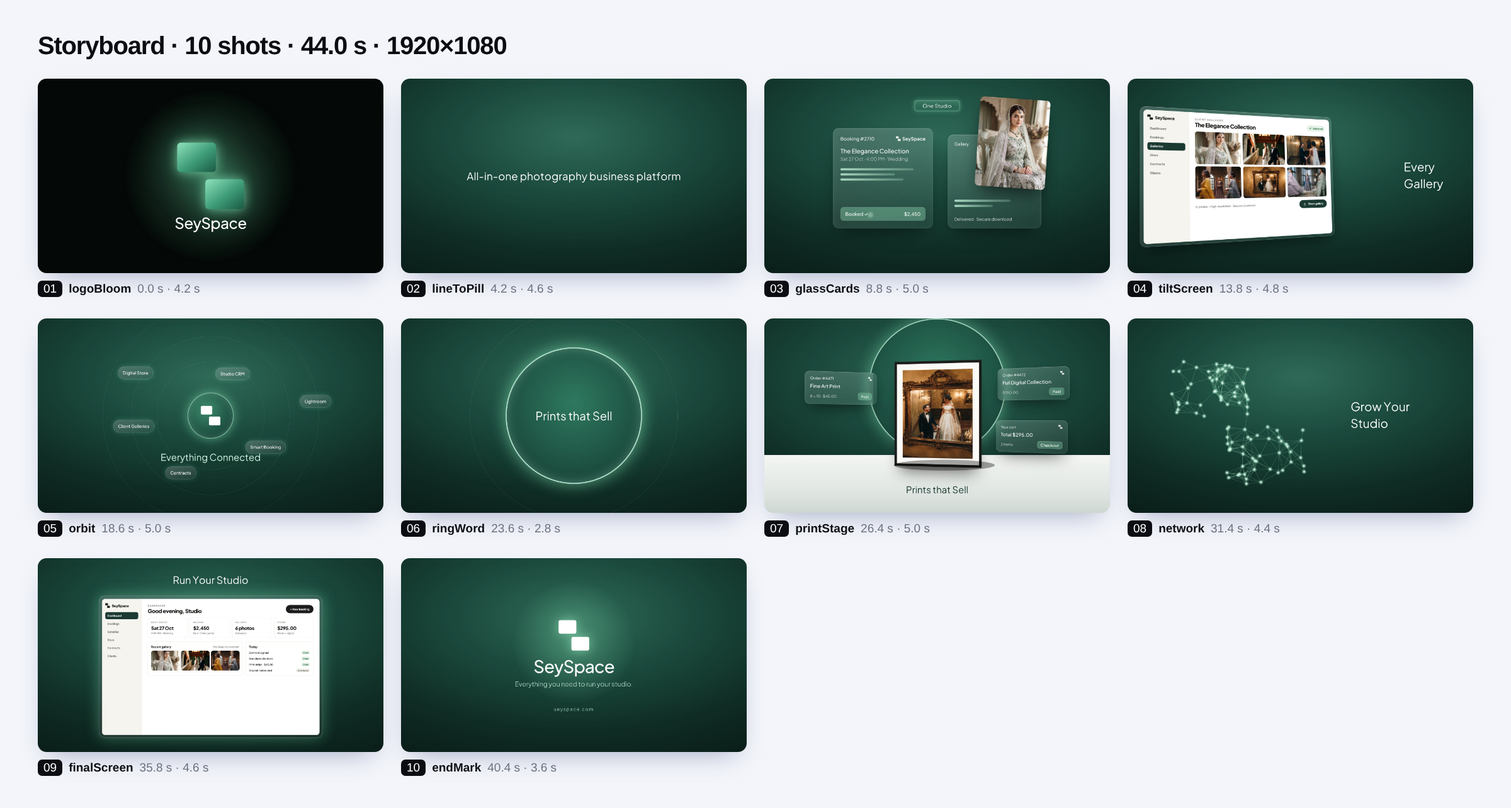
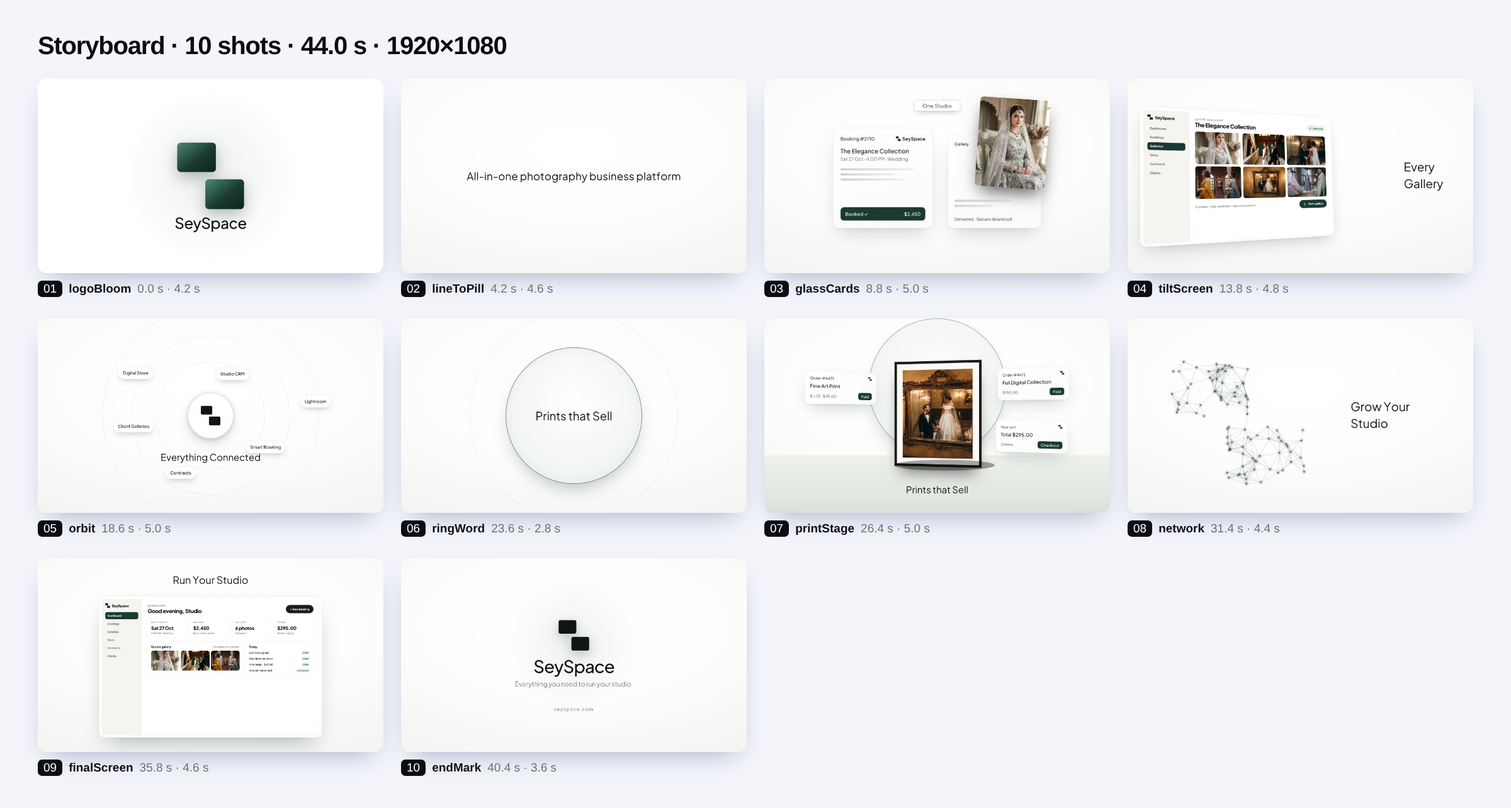
SeySpace reference-led storyboard: clean white world (green version kept as shots_ref_green.js)
Claude-Session: https://claude.ai/code/session_01Bj9t4eAUM8tCdGzL6hCUT3

diff --git a/films/seyspace_ref/shots_ref.js b/films/seyspace_ref/shots_ref.js
@@ -3,22 +3,22 @@
  * tilted screen in a glass frame, orbit rings, glowing ring reveal, product on a white table, light network).
  * Everything in SeySpace's own hue (forest green), mark, photos and product. */
 'use strict';
-const GW = 'radial-gradient(ellipse 90% 80% at 50% 30%,#2F6A57 0%,#1B4A3D 38%,#0F2C24 75%,#0A1F19 100%)';
+const GW = 'radial-gradient(ellipse 90% 80% at 50% 35%,#FFFFFF 0%,#FCFCFA 55%,#F2F4F1 100%)';   /* clean white world (was the green one) */
 const MARK = (fill = '#fff') => `<svg viewBox="0 0 295 294" width="100%" style="display:block;overflow:visible"><rect x="0" y="0" width="171" height="130" rx="16" fill="${fill}"/><rect x="124" y="162" width="171" height="132" rx="16" fill="${fill}"/></svg>`;
 const THIN = (px, w = 400) => `${w} ${px}px 'Plus Jakarta Sans',Inter,sans-serif`;
 (function () { const st = document.createElement('style'); st.textContent = `
   @font-face{font-family:'Plus Jakarta Sans';src:url(fonts/PlusJakartaSans-300.ttf);font-weight:300}
   @font-face{font-family:'Plus Jakarta Sans';src:url(fonts/PlusJakartaSans-400.ttf);font-weight:400}
   @font-face{font-family:'Plus Jakarta Sans';src:url(fonts/PlusJakartaSans-500.ttf);font-weight:500}
-  .glass{background:linear-gradient(160deg,rgba(255,255,255,.18),rgba(255,255,255,.05));border:1.5px solid rgba(255,255,255,.28);border-radius:26px;
-    box-shadow:inset 0 1px 0 rgba(255,255,255,.35),inset 0 0 40px rgba(180,255,220,.06),0 40px 90px -30px rgba(0,0,0,.6);backdrop-filter:blur(18px);color:#fff}
-  .gl-line{height:10px;border-radius:5px;background:linear-gradient(90deg,rgba(190,240,215,.85),rgba(190,240,215,.25))}
-  .gpill{display:inline-flex;align-items:center;justify-content:center;height:84px;padding:0 64px;border-radius:22px;border:2px solid rgba(200,255,230,.55);
-    background:linear-gradient(180deg,rgba(120,210,170,.28),rgba(40,120,90,.18));box-shadow:0 0 40px rgba(140,240,190,.35),inset 0 0 24px rgba(200,255,230,.25);color:#fff;font:400 40px 'Plus Jakarta Sans';letter-spacing:.02em;white-space:nowrap}`; document.head.appendChild(st); })();
+  .glass{background:linear-gradient(160deg,rgba(255,255,255,.92),rgba(250,251,249,.78));border:1px solid #E3E8E3;border-radius:26px;
+    box-shadow:inset 0 1px 0 #fff,0 40px 90px -36px rgba(27,59,50,.28),0 8px 24px -12px rgba(27,59,50,.12);backdrop-filter:blur(18px);color:#111611}
+  .gl-line{height:10px;border-radius:5px;background:linear-gradient(90deg,rgba(27,59,50,.22),rgba(27,59,50,.06))}
+  .gpill{display:inline-flex;align-items:center;justify-content:center;height:84px;padding:0 64px;border-radius:22px;border:1.5px solid rgba(27,59,50,.35);
+    background:#fff;box-shadow:0 20px 50px -20px rgba(27,59,50,.35),0 0 0 6px rgba(27,59,50,.04);color:#1B3B32;font:400 40px 'Plus Jakarta Sans';letter-spacing:.02em;white-space:nowrap}`; document.head.appendChild(st); })();
 
 /* letters that build one by one out of a soft blur (the reference's type) */
 function letters(parent, text, style) {
-  const e = D(parent, 'ctr', Object.assign({ whiteSpace: 'pre', color: '#fff', font: THIN(64) }, style));
+  const e = D(parent, 'ctr', Object.assign({ whiteSpace: 'pre', color: '#111611', font: THIN(64) }, style));
   const ch = [...text].map(c => { const s = document.createElement('span'); s.textContent = c; s.style.display = 'inline-block'; s.style.whiteSpace = 'pre'; e.appendChild(s); return s; });
   return { el: e, ch };
 }
@@ -27,15 +27,15 @@ function lettersP(o, t, t0, per = .045, dur = .45, out = null) {
     if (out) { const q = P(t, out, out + .45); a *= 1 - q; b += q * 10; }
     s.style.opacity = a.toFixed(3); s.style.filter = b > .2 ? `blur(${b.toFixed(1)}px)` : 'none'; s.style.transform = `translateX(${((1 - k) * 18).toFixed(1)}px)`; });
 }
-const glowDot = (c) => D(c, 'abs', { left: 0, top: 0, width: 44, height: 44, marginLeft: '-22px', marginTop: '-22px', borderRadius: '50%', background: 'radial-gradient(circle,#fff 0%,rgba(210,255,235,.9) 30%,rgba(150,240,200,0) 70%)', zIndex: 20 });
+const glowDot = (c) => D(c, 'abs', { left: 0, top: 0, width: 44, height: 44, marginLeft: '-22px', marginTop: '-22px', borderRadius: '50%', background: 'radial-gradient(circle,#1B3B32 0%,rgba(27,59,50,.55) 30%,rgba(27,59,50,0) 70%)', zIndex: 20 });
 
 /* 1 ===== logoBloom: the SeySpace mark grows out of the dark in 3D, glowing; then it shrinks to a spark that opens the green world */
-shot('logoBloom', { len: 4.2, hero: 2.0, bg: '#040806', marker: 'turn',
+shot('logoBloom', { len: 4.2, hero: 2.0, bg: '#FFFFFF', marker: 'turn',
   build(c, s) {
     s.world = D(c, 'abs', { left: 0, top: 0, width: W, height: H, background: GW });
-    s.halo = D(c, 'ctr', { left: CX, top: CY, width: 900, height: 900, borderRadius: '50%', background: 'radial-gradient(closest-side,rgba(110,220,170,.45),transparent)' });
+    s.halo = D(c, 'ctr', { left: CX, top: CY, width: 900, height: 900, borderRadius: '50%', background: 'radial-gradient(closest-side,rgba(27,59,50,.10),transparent)' });
     s.wrap = D(c, 'abs', { left: 0, top: 0, width: W, height: H, perspective: '1400px' });
-    s.mark = D(s.wrap, 'ctr', { left: CX, top: CY, width: 360, filter: 'drop-shadow(0 0 30px rgba(140,240,190,.7)) drop-shadow(0 0 90px rgba(90,200,150,.5))' }, `<svg viewBox="0 0 295 294" width="100%" style="display:block;overflow:visible"><defs><linearGradient id="mg" x1="0" y1="0" x2="1" y2="1"><stop offset="0" stop-color="#8FE3BC"/><stop offset=".55" stop-color="#3E9C78"/><stop offset="1" stop-color="#1B5A45"/></linearGradient></defs><rect x="0" y="0" width="171" height="130" rx="16" fill="url(#mg)"/><rect x="124" y="162" width="171" height="132" rx="16" fill="url(#mg)"/></svg>`);
+    s.mark = D(s.wrap, 'ctr', { left: CX, top: CY, width: 360, filter: 'drop-shadow(0 30px 40px rgba(27,59,50,.3))' }, `<svg viewBox="0 0 295 294" width="100%" style="display:block;overflow:visible"><defs><linearGradient id="mg" x1="0" y1="0" x2="1" y2="1"><stop offset="0" stop-color="#4C8A72"/><stop offset=".55" stop-color="#1B3B32"/><stop offset="1" stop-color="#0F241E"/></linearGradient></defs><rect x="0" y="0" width="171" height="130" rx="16" fill="url(#mg)"/><rect x="124" y="162" width="171" height="132" rx="16" fill="url(#mg)"/></svg>`);
     s.word = letters(c, 'SeySpace', { left: CX, top: CY + 260, font: THIN(84, 500), letterSpacing: '-.02em' });
     s.spark = glowDot(c); s.spark.style.width = s.spark.style.height = '90px'; s.spark.style.marginLeft = s.spark.style.marginTop = '-45px';
   },
@@ -43,7 +43,7 @@ shot('logoBloom', { len: 4.2, hero: 2.0, bg: '#040806', marker: 'turn',
     const k = eo(P(t, 0, 1.4));
     s.mark.style.transform = `translate(-50%,-50%) rotateY(${L(70, 0, k).toFixed(2)}deg) rotateZ(${L(-30, 0, k).toFixed(2)}deg) scale(${(L(.15, 1, k) * L(1, 1.06, P(t, 1.4, 2.6)) * (1 - eio(P(t, 2.6, 3.3)) * .96)).toFixed(4)})`;
     s.mark.style.opacity = C(P(t, 0, .3) * 3) * (1 - P(t, 3.2, 3.35));
-    s.mark.style.filter = `blur(${((1 - k) * 22).toFixed(1)}px) drop-shadow(0 0 30px rgba(140,240,190,.7)) drop-shadow(0 0 90px rgba(90,200,150,.5))`;
+    s.mark.style.filter = `blur(${((1 - k) * 22).toFixed(1)}px) drop-shadow(0 30px 40px rgba(27,59,50,.3))`;
     S(s.halo, { o: eo(P(t, .2, 1.4)) * (1 - P(t, 2.6, 3.2)) * (.8 + .2 * Math.sin(t * 3)), s: L(.5, 1.1, eo(P(t, 0, 2))) });
     lettersP(s.word, t, .9, .06, .5, 2.4);
     // the spark travels right and the world opens from it
@@ -75,10 +75,10 @@ shot('glassCards', { len: 5.4, hero: 3.6, bg: GW,
     s.pill = D(c, 'ctr', { left: CX, top: CY - 380, transform: 'translate(-50%,-50%) scale(.7)' }, `<span class="gpill">${kesc(sc.pill || '')}</span>`);
     s.wrap = D(c, 'abs', { left: 0, top: 0, width: W, height: H, perspective: '1800px', transformOrigin: '50% 60%', transform: 'scale(1.15)' });
     s.a = D(s.wrap, 'abs glass', { left: 470, top: 330, width: 470, height: 470, padding: '34px 34px' },
-      `<div style="display:flex;justify-content:space-between;align-items:center;font:${THIN(22, 500)};opacity:.9"><span>Booking #2710</span><span style="display:flex;align-items:center;gap:8px;font:600 22px 'Plus Jakarta Sans'"><span style="width:22px;height:22px">${MARK('#fff')}</span>SeySpace</span></div>
+      `<div style="display:flex;justify-content:space-between;align-items:center;font:${THIN(22, 500)};opacity:.9"><span>Booking #2710</span><span style="display:flex;align-items:center;gap:8px;font:600 22px 'Plus Jakarta Sans'"><span style="width:22px;height:22px">${MARK('#111611')}</span>SeySpace</span></div>
        <div style="margin-top:26px;font:${THIN(28, 500)}">The Elegance Collection</div><div style="margin-top:6px;font:${THIN(22, 300)};opacity:.8">Sat 27 Oct · 4:00 PM · Wedding</div>
        <div class="gl-line" style="width:86%;margin-top:30px"></div><div class="gl-line" style="width:64%;margin-top:14px"></div><div class="gl-line" style="width:74%;margin-top:14px"></div>
-       <div class="bk" style="position:absolute;left:34px;right:34px;bottom:34px;height:64px;border-radius:16px;background:rgba(255,255,255,.14);border:1.5px solid rgba(255,255,255,.3);display:flex;align-items:center;justify-content:space-between;padding:0 22px;font:${THIN(22, 500)}"><span class="lb">Confirm booking</span><span>$2,450</span></div>`);
+       <div class="bk" style="position:absolute;left:34px;right:34px;bottom:34px;height:64px;border-radius:16px;background:#F3F6F3;border:1px solid #E1E7E1;display:flex;align-items:center;justify-content:space-between;padding:0 22px;font:${THIN(22, 500)}"><span class="lb">Confirm booking</span><span>$2,450</span></div>`);
     s.b = D(s.wrap, 'abs glass', { left: 1010, top: 360, width: 440, height: 440, padding: '30px' },
       `<div style="display:flex;justify-content:space-between;font:${THIN(20, 500)};opacity:.9"><span>Gallery</span><span>6 photos</span></div>
        <div class="gl-line" style="width:70%;margin-top:250px"></div><div class="gl-line" style="width:48%;margin-top:14px"></div>
@@ -94,7 +94,7 @@ shot('glassCards', { len: 5.4, hero: 3.6, bg: GW,
     s.photo.style.transform = `translate(${((1 - kp) * 60).toFixed(1)}px,${((1 - kp) * 40).toFixed(1)}px) rotate(${L(8, 4, kp).toFixed(2)}deg) rotateY(${L(0, -16, tilt).toFixed(2)}deg)`; s.photo.style.opacity = C(kp * 2);
     const bp = centerOf(s.bk), dk = eio(P(t, 1.8, 2.6));
     S(s.dot, { x: L(CX + 300, bp.x - 60, dk), y: L(CY + 360, bp.y, dk), o: P(t, 1.7, 1.9) * (1 - P(t, 3.4, 3.7)), s: t > 2.7 && t < 2.95 ? 1.5 : 1 });
-    const done = t > 2.8; s.lb.textContent = done ? 'Booked ✓' : 'Confirm booking'; s.bk.style.background = done ? 'rgba(160,240,200,.35)' : 'rgba(255,255,255,.14)';
+    const done = t > 2.8; s.lb.textContent = done ? 'Booked ✓' : 'Confirm booking'; s.bk.style.background = done ? '#1B3B32' : '#F3F6F3'; s.bk.style.color = done ? '#fff' : '#111611';
     s.wrap.style.filter = tilt > .5 ? `blur(${((tilt - .5) * 10).toFixed(1)}px)` : 'none';
   } });
 
@@ -119,11 +119,11 @@ shot('tiltScreen', { len: 5.4, hero: 3.4, bg: GW,
 /* 5 ===== orbit: the mark in a glowing ring, its products orbiting on thin rings */
 shot('orbit', { len: 6.0, hero: 3.6, bg: GW,
   build(c, s, sc) {
-    s.rings = [300, 440, 600].map(r => D(c, 'ctr', { left: CX, top: CY, width: r * 2, height: r * 2, borderRadius: '50%', border: '1.5px solid rgba(200,255,230,.22)' }));
-    s.core = D(c, 'ctr', { left: CX, top: CY, width: 260, height: 260, borderRadius: '50%', background: 'radial-gradient(circle at 40% 35%,#3E8C6E,#1B4A3D 70%)', border: '3px solid rgba(200,255,230,.7)', boxShadow: '0 0 60px rgba(140,240,190,.55),inset 0 0 40px rgba(200,255,230,.25)', display: 'flex', alignItems: 'center', justifyContent: 'center' },
-      `<div style="width:110px">${MARK('#fff')}</div>`);
-    s.word = letters(c, sc.text || '', { left: CX, top: CY + 230, font: THIN(52, 400), color: 'rgba(220,255,240,.95)' });
-    s.items = (sc.items || []).map((n, i) => ({ e: D(c, 'ctr', { left: 0, top: 0, height: 70, padding: '0 26px', borderRadius: '35px', background: 'linear-gradient(160deg,rgba(255,255,255,.22),rgba(255,255,255,.06))', border: '1.5px solid rgba(255,255,255,.35)', color: '#fff', font: THIN(24, 500), display: 'flex', alignItems: 'center', whiteSpace: 'nowrap', boxShadow: '0 0 30px rgba(140,240,190,.25)' }, kesc(n)),
+    s.rings = [300, 440, 600].map(r => D(c, 'ctr', { left: CX, top: CY, width: r * 2, height: r * 2, borderRadius: '50%', border: '1.5px solid rgba(27,59,50,.14)' }));
+    s.core = D(c, 'ctr', { left: CX, top: CY, width: 260, height: 260, borderRadius: '50%', background: '#fff', border: '2px solid rgba(27,59,50,.25)', boxShadow: '0 30px 70px -24px rgba(27,59,50,.35),0 0 0 14px rgba(27,59,50,.04)', display: 'flex', alignItems: 'center', justifyContent: 'center' },
+      `<div style="width:110px">${MARK('#111611')}</div>`);
+    s.word = letters(c, sc.text || '', { left: CX, top: CY + 230, font: THIN(52, 400), color: '#111611' });
+    s.items = (sc.items || []).map((n, i) => ({ e: D(c, 'ctr', { left: 0, top: 0, height: 70, padding: '0 26px', borderRadius: '35px', background: '#fff', border: '1px solid #E1E7E1', color: '#111611', font: THIN(24, 500), display: 'flex', alignItems: 'center', whiteSpace: 'nowrap', boxShadow: '0 16px 34px -16px rgba(27,59,50,.35)' }, kesc(n)),
       r: [440, 600, 440, 600, 440, 600][i % 6], a: i * Math.PI / 3 + .3, sp: .14, d: .9 + i * .14 }));
   },
   update(t, s, c) {
@@ -137,28 +137,28 @@ shot('orbit', { len: 6.0, hero: 3.6, bg: GW,
 /* 6 ===== ringWord: a big glowing ring fills the frame; the next idea builds inside it */
 shot('ringWord', { len: 3.4, hero: 2.4, bg: GW,
   build(c, s, sc) {
-    s.ring = D(c, 'ctr', { left: CX, top: CY, width: 760, height: 760, borderRadius: '50%', background: 'radial-gradient(circle at 50% 40%,#2F7A60,#1B4A3D 72%)', border: '6px solid rgba(210,255,235,.85)', boxShadow: '0 0 90px rgba(140,240,190,.6),inset 0 0 60px rgba(200,255,230,.3)' });
-    s.halo = D(c, 'ctr', { left: CX, top: CY, width: 1100, height: 1100, borderRadius: '50%', border: '1.5px solid rgba(200,255,230,.25)' });
+    s.ring = D(c, 'ctr', { left: CX, top: CY, width: 760, height: 760, borderRadius: '50%', background: 'radial-gradient(circle at 50% 40%,#FFFFFF,#F1F5F2 72%)', border: '3px solid rgba(27,59,50,.55)', boxShadow: '0 50px 100px -40px rgba(27,59,50,.35),inset 0 0 60px rgba(27,59,50,.05)' });
+    s.halo = D(c, 'ctr', { left: CX, top: CY, width: 1100, height: 1100, borderRadius: '50%', border: '1.5px solid rgba(27,59,50,.14)' });
     s.word = letters(c, sc.text || '', { left: CX, top: CY, font: THIN(64, 400) });
   },
   update(t, s, c) {
     const k = eo(P(t, 0, 1.0)); S(s.ring, { s: L(.35, 1, k) * (1 + .015 * Math.sin(t * 4)), o: C(k * 2) }); S(s.halo, { s: L(.5, 1.05, eo(P(t, .2, 1.4))), o: .9 * eo(P(t, .2, 1)) });
-    s.ring.style.borderColor = `rgba(210,255,235,${(.6 + .3 * Math.sin(t * 3)).toFixed(2)})`;
+    s.ring.style.borderColor = `rgba(27,59,50,${(.45 + .15 * Math.sin(t * 3)).toFixed(2)})`;
     lettersP(s.word, t, .8, .055);
   } });
 
 /* 7 ===== printStage: the product as an object: the client's framed print on a white table, glass order cards floating over it */
 shot('printStage', { len: 5.4, hero: 3.6, bg: GW,
   build(c, s, sc) {
-    s.ring = D(c, 'ctr', { left: CX, top: 380, width: 760, height: 760, borderRadius: '50%', background: 'radial-gradient(circle at 50% 40%,#2F7A60,#1B4A3D 72%)', border: '6px solid rgba(210,255,235,.8)', boxShadow: '0 0 90px rgba(140,240,190,.55)' });
-    s.table = D(c, 'abs', { left: -100, top: 760, width: W + 200, height: 420, background: 'linear-gradient(180deg,#F4F6F3 0%,#DDE4DF 55%,#BCC8C1 100%)', boxShadow: '0 -2px 0 rgba(255,255,255,.9)' });
+    s.ring = D(c, 'ctr', { left: CX, top: 380, width: 760, height: 760, borderRadius: '50%', background: 'radial-gradient(circle at 50% 40%,#FFFFFF,#EEF3EF 72%)', border: '3px solid rgba(27,59,50,.45)', boxShadow: '0 50px 100px -40px rgba(27,59,50,.3)' });
+    s.table = D(c, 'abs', { left: -100, top: 760, width: W + 200, height: 420, background: 'linear-gradient(180deg,#EEF1EC 0%,#E2E7E1 55%,#D2D9D2 100%)', boxShadow: '0 -1px 0 #fff' });
     s.wrap = D(c, 'abs', { left: 0, top: 0, width: W, height: H, perspective: '1600px' });
     s.frame = D(s.wrap, 'abs', { left: CX - 230, top: 250, width: 460, height: 560, background: '#fbfaf7', padding: '34px', boxShadow: '0 0 0 14px #1d1d1b,0 60px 80px -20px rgba(0,0,0,.55)', transformOrigin: '50% 100%' }, `<div style="width:100%;height:100%;background:url('assets/g4.jpg') center/cover"></div>`);
     s.shadow = D(c, 'ctr', { left: CX + 40, top: 815, width: 560, height: 60, borderRadius: '50%', background: 'rgba(0,0,0,.35)', filter: 'blur(18px)' });
     const cards = sc.cards || [];
     s.cards = cards.map((cd, i) => D(s.wrap, 'abs glass', { left: [240, 1300, 1290][i], top: [300, 270, 560][i], width: 380, padding: '24px 26px' },
-      `<div style="display:flex;justify-content:space-between;font:${THIN(20, 500)};opacity:.85"><span>${kesc(cd[0])}</span><span style="width:20px;height:20px">${MARK('#fff')}</span></div><div style="margin-top:14px;font:${THIN(26, 500)}">${kesc(cd[1])}</div><div style="display:flex;justify-content:space-between;align-items:center;margin-top:18px"><span style="font:${THIN(20, 300)};opacity:.85">${kesc(cd[2])}</span><span style="height:40px;padding:0 16px;border-radius:12px;background:rgba(160,240,200,.3);border:1.5px solid rgba(220,255,240,.5);display:flex;align-items:center;font:${THIN(20, 500)}">${kesc(cd[3])}</span></div>`));
-    s.word = letters(c, sc.text || '', { left: CX, top: 950, font: THIN(52, 400), color: '#1B3B32' });
+      `<div style="display:flex;justify-content:space-between;font:${THIN(20, 500)};opacity:.85"><span>${kesc(cd[0])}</span><span style="width:20px;height:20px">${MARK('#111611')}</span></div><div style="margin-top:14px;font:${THIN(26, 500)}">${kesc(cd[1])}</div><div style="display:flex;justify-content:space-between;align-items:center;margin-top:18px"><span style="font:${THIN(20, 300)};opacity:.85">${kesc(cd[2])}</span><span style="height:40px;padding:0 16px;border-radius:12px;background:#1B3B32;color:#fff;display:flex;align-items:center;font:${THIN(20, 500)}">${kesc(cd[3])}</span></div>`));
+    s.word = letters(c, sc.text || '', { left: CX, top: 950, font: THIN(52, 400), color: '#111611' });
   },
   update(t, s, c) {
     S(c, { s: L(1.04, 1, eo(P(t, 0, 5.4))) });
@@ -184,9 +184,9 @@ shot('network', { len: 5.0, hero: 3.2, bg: GW,
     S(c, { s: L(1, 1.05, t / 5) });
     const x = s.cv.getContext('2d'); x.clearRect(0, 0, W, H);
     const pos = s.pts.map(([px, py], i) => { const k = eio(P(t, hash(i) * .6, .9 + hash(i) * .6)); return [L(px + (hash(i + 4) - .5) * 900, px, k), L(py + (hash(i + 8) - .5) * 700, py, k), k]; });
-    x.lineWidth = 1.2; s.links.forEach(([i, j], n) => { const a = Math.min(pos[i][2], pos[j][2]) * eo(P(t, 1.0, 2.0)); if (a <= 0) return; x.strokeStyle = `rgba(170,240,205,${(a * .45).toFixed(3)})`; x.beginPath(); x.moveTo(pos[i][0], pos[i][1]); x.lineTo(pos[j][0], pos[j][1]); x.stroke(); });
-    pos.forEach(([px, py, k], i) => { const g = x.createRadialGradient(px, py, 0, px, py, 14); g.addColorStop(0, `rgba(235,255,245,${k})`); g.addColorStop(1, 'rgba(150,240,200,0)'); x.fillStyle = g; x.beginPath(); x.arc(px, py, 14, 0, 7); x.fill();
-      const tw = .5 + .5 * Math.sin(t * 4 + i); x.fillStyle = `rgba(255,255,255,${(k * (.6 + .4 * tw)).toFixed(3)})`; x.beginPath(); x.arc(px, py, 3.2, 0, 7); x.fill(); });
+    x.lineWidth = 1.2; s.links.forEach(([i, j], n) => { const a = Math.min(pos[i][2], pos[j][2]) * eo(P(t, 1.0, 2.0)); if (a <= 0) return; x.strokeStyle = `rgba(27,59,50,${(a * .28).toFixed(3)})`; x.beginPath(); x.moveTo(pos[i][0], pos[i][1]); x.lineTo(pos[j][0], pos[j][1]); x.stroke(); });
+    pos.forEach(([px, py, k], i) => { const g = x.createRadialGradient(px, py, 0, px, py, 14); g.addColorStop(0, `rgba(27,59,50,${(k * .35).toFixed(3)})`); g.addColorStop(1, 'rgba(27,59,50,0)'); x.fillStyle = g; x.beginPath(); x.arc(px, py, 14, 0, 7); x.fill();
+      const tw = .5 + .5 * Math.sin(t * 4 + i); x.fillStyle = `rgba(27,59,50,${(k * (.7 + .3 * tw)).toFixed(3)})`; x.beginPath(); x.arc(px, py, 3.2, 0, 7); x.fill(); });
     lettersP(s.w1, t, 1.2, .06); lettersP(s.w2, t, 1.55, .06);
   } });
 
@@ -194,7 +194,7 @@ shot('network', { len: 5.0, hero: 3.2, bg: GW,
 shot('finalScreen', { len: 5.2, hero: 3.4, bg: GW,
   build(c, s, sc) {
     s.title = letters(c, sc.title || '', { left: CX, top: 120, font: THIN(56, 400) });
-    s.frame = D(c, 'abs glass', { left: CX - 620, top: 210, width: 1240, height: 790, padding: '16px', borderRadius: '30px', boxShadow: '0 0 0 1px rgba(255,255,255,.2),0 0 80px rgba(140,240,190,.35)' });
+    s.frame = D(c, 'abs glass', { left: CX - 620, top: 210, width: 1240, height: 790, padding: '16px', borderRadius: '30px', boxShadow: '0 60px 120px -50px rgba(27,59,50,.4),0 0 0 1px #E3E8E3' });
     s.comp = renderComponent(s.frame, sc.component, { x: 16, y: 16, w: 1208 }); s.comp.el.style.position = 'absolute'; s.comp.el.style.height = '758px'; s.comp.el.style.overflow = 'hidden'; s.comp.el.style.borderRadius = '18px'; s.comp.el.style.boxShadow = 'none';
   },
   update(t, s, c) {
@@ -207,15 +207,15 @@ shot('finalScreen', { len: 5.2, hero: 3.4, bg: GW,
 /* 10 ===== endMark: mark, wordmark, line, URL */
 shot('endMark', { len: 3.6, hero: 2.6, bg: GW, marker: 'cta',
   build(c, s, sc) {
-    s.halo = D(c, 'ctr', { left: CX, top: CY - 70, width: 700, height: 700, borderRadius: '50%', background: 'radial-gradient(closest-side,rgba(140,240,190,.35),transparent)' });
-    s.mark = D(c, 'ctr', { left: CX, top: CY - 110, width: 170, filter: 'drop-shadow(0 0 30px rgba(160,240,200,.6))' }, MARK('#fff'));
+    s.halo = D(c, 'ctr', { left: CX, top: CY - 70, width: 700, height: 700, borderRadius: '50%', background: 'radial-gradient(closest-side,rgba(27,59,50,.07),transparent)' });
+    s.mark = D(c, 'ctr', { left: CX, top: CY - 110, width: 170, filter: 'drop-shadow(0 20px 30px rgba(27,59,50,.25))' }, MARK('#111611'));
     s.word = letters(c, 'SeySpace', { left: CX, top: CY + 60, font: THIN(96, 500), letterSpacing: '-.03em' });
-    s.line = letters(c, sc.line || '', { left: CX, top: CY + 160, font: THIN(36, 300), color: 'rgba(220,255,240,.9)' });
-    s.url = letters(c, B.url || '', { left: CX, top: CY + 300, font: THIN(26, 400), color: 'rgba(220,255,240,.7)', letterSpacing: '.12em' });
+    s.line = letters(c, sc.line || '', { left: CX, top: CY + 160, font: THIN(36, 300), color: '#5F655E' });
+    s.url = letters(c, B.url || '', { left: CX, top: CY + 300, font: THIN(26, 400), color: '#7A7F78', letterSpacing: '.12em' });
   },
   update(t, s, c) {
     S(c, { s: L(1.04, 1, eo(P(t, 0, 3.6))) });
-    const k = eo(P(t, 0, .9)); s.mark.style.opacity = C(k * 2); s.mark.style.transform = `translate(-50%,-50%) scale(${L(.6, 1, k).toFixed(3)}) rotate(${L(-20, 0, k).toFixed(2)}deg)`; s.mark.style.filter = `blur(${((1 - k) * 16).toFixed(1)}px) drop-shadow(0 0 30px rgba(160,240,200,.6))`;
+    const k = eo(P(t, 0, .9)); s.mark.style.opacity = C(k * 2); s.mark.style.transform = `translate(-50%,-50%) scale(${L(.6, 1, k).toFixed(3)}) rotate(${L(-20, 0, k).toFixed(2)}deg)`; s.mark.style.filter = `blur(${((1 - k) * 16).toFixed(1)}px) drop-shadow(0 20px 30px rgba(27,59,50,.25))`;
     S(s.halo, { o: k * (.8 + .2 * Math.sin(t * 3)) });
     lettersP(s.word, t, .5, .06); lettersP(s.line, t, 1.1, .03); lettersP(s.url, t, 1.7, .03);
   } });

diff --git a/films/seyspace_ref/shots_ref_green.js b/films/seyspace_ref/shots_ref_green.js
@@ -1,0 +1,221 @@
+/* SeySpace, reference-led film (taste adjustments from the user's reference: one-colour glowing world, slow
+ * continuous camera, thin small type built letter by letter, frosted glass cards with real product photos,
+ * tilted screen in a glass frame, orbit rings, glowing ring reveal, product on a white table, light network).
+ * Everything in SeySpace's own hue (forest green), mark, photos and product. */
+'use strict';
+const GW = 'radial-gradient(ellipse 90% 80% at 50% 30%,#2F6A57 0%,#1B4A3D 38%,#0F2C24 75%,#0A1F19 100%)';
+const MARK = (fill = '#fff') => `<svg viewBox="0 0 295 294" width="100%" style="display:block;overflow:visible"><rect x="0" y="0" width="171" height="130" rx="16" fill="${fill}"/><rect x="124" y="162" width="171" height="132" rx="16" fill="${fill}"/></svg>`;
+const THIN = (px, w = 400) => `${w} ${px}px 'Plus Jakarta Sans',Inter,sans-serif`;
+(function () { const st = document.createElement('style'); st.textContent = `
+  @font-face{font-family:'Plus Jakarta Sans';src:url(fonts/PlusJakartaSans-300.ttf);font-weight:300}
+  @font-face{font-family:'Plus Jakarta Sans';src:url(fonts/PlusJakartaSans-400.ttf);font-weight:400}
+  @font-face{font-family:'Plus Jakarta Sans';src:url(fonts/PlusJakartaSans-500.ttf);font-weight:500}
+  .glass{background:linear-gradient(160deg,rgba(255,255,255,.18),rgba(255,255,255,.05));border:1.5px solid rgba(255,255,255,.28);border-radius:26px;
+    box-shadow:inset 0 1px 0 rgba(255,255,255,.35),inset 0 0 40px rgba(180,255,220,.06),0 40px 90px -30px rgba(0,0,0,.6);backdrop-filter:blur(18px);color:#fff}
+  .gl-line{height:10px;border-radius:5px;background:linear-gradient(90deg,rgba(190,240,215,.85),rgba(190,240,215,.25))}
+  .gpill{display:inline-flex;align-items:center;justify-content:center;height:84px;padding:0 64px;border-radius:22px;border:2px solid rgba(200,255,230,.55);
+    background:linear-gradient(180deg,rgba(120,210,170,.28),rgba(40,120,90,.18));box-shadow:0 0 40px rgba(140,240,190,.35),inset 0 0 24px rgba(200,255,230,.25);color:#fff;font:400 40px 'Plus Jakarta Sans';letter-spacing:.02em;white-space:nowrap}`; document.head.appendChild(st); })();
+
+/* letters that build one by one out of a soft blur (the reference's type) */
+function letters(parent, text, style) {
+  const e = D(parent, 'ctr', Object.assign({ whiteSpace: 'pre', color: '#fff', font: THIN(64) }, style));
+  const ch = [...text].map(c => { const s = document.createElement('span'); s.textContent = c; s.style.display = 'inline-block'; s.style.whiteSpace = 'pre'; e.appendChild(s); return s; });
+  return { el: e, ch };
+}
+function lettersP(o, t, t0, per = .045, dur = .45, out = null) {
+  o.ch.forEach((s, i) => { const k = eo(P(t, t0 + i * per, t0 + i * per + dur)); let a = k, b = (1 - k) * 10;
+    if (out) { const q = P(t, out, out + .45); a *= 1 - q; b += q * 10; }
+    s.style.opacity = a.toFixed(3); s.style.filter = b > .2 ? `blur(${b.toFixed(1)}px)` : 'none'; s.style.transform = `translateX(${((1 - k) * 18).toFixed(1)}px)`; });
+}
+const glowDot = (c) => D(c, 'abs', { left: 0, top: 0, width: 44, height: 44, marginLeft: '-22px', marginTop: '-22px', borderRadius: '50%', background: 'radial-gradient(circle,#fff 0%,rgba(210,255,235,.9) 30%,rgba(150,240,200,0) 70%)', zIndex: 20 });
+
+/* 1 ===== logoBloom: the SeySpace mark grows out of the dark in 3D, glowing; then it shrinks to a spark that opens the green world */
+shot('logoBloom', { len: 4.2, hero: 2.0, bg: '#040806', marker: 'turn',
+  build(c, s) {
+    s.world = D(c, 'abs', { left: 0, top: 0, width: W, height: H, background: GW });
+    s.halo = D(c, 'ctr', { left: CX, top: CY, width: 900, height: 900, borderRadius: '50%', background: 'radial-gradient(closest-side,rgba(110,220,170,.45),transparent)' });
+    s.wrap = D(c, 'abs', { left: 0, top: 0, width: W, height: H, perspective: '1400px' });
+    s.mark = D(s.wrap, 'ctr', { left: CX, top: CY, width: 360, filter: 'drop-shadow(0 0 30px rgba(140,240,190,.7)) drop-shadow(0 0 90px rgba(90,200,150,.5))' }, `<svg viewBox="0 0 295 294" width="100%" style="display:block;overflow:visible"><defs><linearGradient id="mg" x1="0" y1="0" x2="1" y2="1"><stop offset="0" stop-color="#8FE3BC"/><stop offset=".55" stop-color="#3E9C78"/><stop offset="1" stop-color="#1B5A45"/></linearGradient></defs><rect x="0" y="0" width="171" height="130" rx="16" fill="url(#mg)"/><rect x="124" y="162" width="171" height="132" rx="16" fill="url(#mg)"/></svg>`);
+    s.word = letters(c, 'SeySpace', { left: CX, top: CY + 260, font: THIN(84, 500), letterSpacing: '-.02em' });
+    s.spark = glowDot(c); s.spark.style.width = s.spark.style.height = '90px'; s.spark.style.marginLeft = s.spark.style.marginTop = '-45px';
+  },
+  update(t, s, c) {
+    const k = eo(P(t, 0, 1.4));
+    s.mark.style.transform = `translate(-50%,-50%) rotateY(${L(70, 0, k).toFixed(2)}deg) rotateZ(${L(-30, 0, k).toFixed(2)}deg) scale(${(L(.15, 1, k) * L(1, 1.06, P(t, 1.4, 2.6)) * (1 - eio(P(t, 2.6, 3.3)) * .96)).toFixed(4)})`;
+    s.mark.style.opacity = C(P(t, 0, .3) * 3) * (1 - P(t, 3.2, 3.35));
+    s.mark.style.filter = `blur(${((1 - k) * 22).toFixed(1)}px) drop-shadow(0 0 30px rgba(140,240,190,.7)) drop-shadow(0 0 90px rgba(90,200,150,.5))`;
+    S(s.halo, { o: eo(P(t, .2, 1.4)) * (1 - P(t, 2.6, 3.2)) * (.8 + .2 * Math.sin(t * 3)), s: L(.5, 1.1, eo(P(t, 0, 2))) });
+    lettersP(s.word, t, .9, .06, .5, 2.4);
+    // the spark travels right and the world opens from it
+    const sp = eio(P(t, 3.0, 3.8)), sx = L(CX, CX + 420, sp), sy = L(CY, CY - 60, sp);
+    S(s.spark, { x: sx, y: sy, o: P(t, 3.0, 3.15) * (1 - P(t, 3.9, 4.2)), s: 1 + .3 * Math.sin(t * 20) });
+    const R = 2400 * eio(P(t, 3.3, 4.2)); s.world.style.clipPath = `circle(${R.toFixed(0)}px at ${sx.toFixed(0)}px ${sy.toFixed(0)}px)`;
+  } });
+
+/* 2 ===== lineToPill: the positioning line builds letter by letter, then condenses into a glowing glass pill */
+shot('lineToPill', { len: 5.0, hero: 1.9, bg: GW,
+  build(c, s, sc) {
+    s.line = letters(c, sc.line || '', { left: CX, top: CY, font: THIN(58, 400), letterSpacing: '.01em' });
+    s.pill = D(c, 'ctr', { left: CX, top: CY }, `<span class="gpill"></span>`); s.pt = s.pill.firstChild;
+    s.ptxt = letters(s.pt, sc.pill || '', { position: 'static', transform: 'none', font: THIN(40, 400), letterSpacing: '.03em' }); s.ptxt.el.className = '';
+  },
+  update(t, s, c) {
+    S(c, { s: L(1, 1.03, t / 5) });
+    lettersP(s.line, t, .1, .035, .5, 2.4);
+    s.line.el.style.letterSpacing = `${L(.01, -.04, eio(P(t, 2.0, 2.8))).toFixed(3)}em`;
+    const pk = eio(P(t, 2.55, 3.2)), up = eio(P(t, 3.9, 4.8));
+    S(s.pill, { o: C(pk * 2), s: L(.4, 1, pk) * L(1, .7, up), y: L(0, -380, up) });
+    s.pt.style.width = L(80, 520, pk) + 'px'; s.pt.style.padding = '0';
+    lettersP(s.ptxt, t, 3.0, .05, .4);
+  } });
+
+/* 3 ===== glassCards: under the pill, two frosted cards: a booking and the job's photo popping out of its card; a light taps "Confirm" */
+shot('glassCards', { len: 5.4, hero: 3.6, bg: GW,
+  build(c, s, sc) {
+    s.pill = D(c, 'ctr', { left: CX, top: CY - 380, transform: 'translate(-50%,-50%) scale(.7)' }, `<span class="gpill">${kesc(sc.pill || '')}</span>`);
+    s.wrap = D(c, 'abs', { left: 0, top: 0, width: W, height: H, perspective: '1800px', transformOrigin: '50% 60%', transform: 'scale(1.15)' });
+    s.a = D(s.wrap, 'abs glass', { left: 470, top: 330, width: 470, height: 470, padding: '34px 34px' },
+      `<div style="display:flex;justify-content:space-between;align-items:center;font:${THIN(22, 500)};opacity:.9"><span>Booking #2710</span><span style="display:flex;align-items:center;gap:8px;font:600 22px 'Plus Jakarta Sans'"><span style="width:22px;height:22px">${MARK('#fff')}</span>SeySpace</span></div>
+       <div style="margin-top:26px;font:${THIN(28, 500)}">The Elegance Collection</div><div style="margin-top:6px;font:${THIN(22, 300)};opacity:.8">Sat 27 Oct · 4:00 PM · Wedding</div>
+       <div class="gl-line" style="width:86%;margin-top:30px"></div><div class="gl-line" style="width:64%;margin-top:14px"></div><div class="gl-line" style="width:74%;margin-top:14px"></div>
+       <div class="bk" style="position:absolute;left:34px;right:34px;bottom:34px;height:64px;border-radius:16px;background:rgba(255,255,255,.14);border:1.5px solid rgba(255,255,255,.3);display:flex;align-items:center;justify-content:space-between;padding:0 22px;font:${THIN(22, 500)}"><span class="lb">Confirm booking</span><span>$2,450</span></div>`);
+    s.b = D(s.wrap, 'abs glass', { left: 1010, top: 360, width: 440, height: 440, padding: '30px' },
+      `<div style="display:flex;justify-content:space-between;font:${THIN(20, 500)};opacity:.9"><span>Gallery</span><span>6 photos</span></div>
+       <div class="gl-line" style="width:70%;margin-top:250px"></div><div class="gl-line" style="width:48%;margin-top:14px"></div>
+       <div style="position:absolute;left:30px;bottom:30px;font:${THIN(20, 400)};opacity:.85">Delivered · Secure download</div>`);
+    s.photo = D(s.wrap, 'abs', { left: 1150, top: 190, width: 330, height: 420, borderRadius: '18px', background: "url('assets/g2.jpg') center 22%/cover", boxShadow: '0 40px 80px -24px rgba(0,0,0,.7)' });
+    s.dot = glowDot(c); s.lb = s.a.querySelector('.lb'); s.bk = s.a.querySelector('.bk');
+  },
+  update(t, s, c) {
+    S(c, { s: L(1, 1.04, t / 5.4) });
+    const ka = eo(P(t, .1, .9)), kb = eo(P(t, .3, 1.1)), kp = eo(P(t, .6, 1.4)), tilt = eio(P(t, 4.2, 5.2));
+    s.a.style.transform = `translateY(${((1 - ka) * 80).toFixed(1)}px) rotateY(${L(0, 16, tilt).toFixed(2)}deg) scale(${L(1, 1.08, tilt).toFixed(3)})`; s.a.style.opacity = C(ka * 2);
+    s.b.style.transform = `translateY(${((1 - kb) * 80).toFixed(1)}px) rotateY(${L(0, -16, tilt).toFixed(2)}deg) scale(${L(1, 1.08, tilt).toFixed(3)})`; s.b.style.opacity = C(kb * 2);
+    s.photo.style.transform = `translate(${((1 - kp) * 60).toFixed(1)}px,${((1 - kp) * 40).toFixed(1)}px) rotate(${L(8, 4, kp).toFixed(2)}deg) rotateY(${L(0, -16, tilt).toFixed(2)}deg)`; s.photo.style.opacity = C(kp * 2);
+    const bp = centerOf(s.bk), dk = eio(P(t, 1.8, 2.6));
+    S(s.dot, { x: L(CX + 300, bp.x - 60, dk), y: L(CY + 360, bp.y, dk), o: P(t, 1.7, 1.9) * (1 - P(t, 3.4, 3.7)), s: t > 2.7 && t < 2.95 ? 1.5 : 1 });
+    const done = t > 2.8; s.lb.textContent = done ? 'Booked ✓' : 'Confirm booking'; s.bk.style.background = done ? 'rgba(160,240,200,.35)' : 'rgba(255,255,255,.14)';
+    s.wrap.style.filter = tilt > .5 ? `blur(${((tilt - .5) * 10).toFixed(1)}px)` : 'none';
+  } });
+
+/* 4 ===== tiltScreen: the rebuilt product screen in a glass frame, tilted in 3D, with two thin words beside it */
+shot('tiltScreen', { len: 5.4, hero: 3.4, bg: GW,
+  build(c, s, sc) {
+    s.wrap = D(c, 'abs', { left: 0, top: 0, width: W, height: H, perspective: '2200px' });
+    s.frame = D(s.wrap, 'abs glass', { left: 130, top: 190, width: 1060, height: 700, padding: '16px', borderRadius: '30px' });
+    s.comp = renderComponent(s.frame, sc.component, { x: 16, y: 16, w: 1028 }); s.comp.el.style.position = 'absolute'; s.comp.el.style.height = '668px'; s.comp.el.style.overflow = 'hidden'; s.comp.el.style.borderRadius = '18px'; s.comp.el.style.boxShadow = 'none';
+    s.w1 = letters(c, (sc.words || [])[0] || '', { left: 1520, top: CY - 50, font: THIN(64, 400), transform: 'translate(0,-50%)' });
+    s.w2 = letters(c, (sc.words || [])[1] || '', { left: 1520, top: CY + 40, font: THIN(64, 400), transform: 'translate(0,-50%)' });
+    s.w1.el.className = s.w2.el.className = 'abs';
+  },
+  update(t, s, c) {
+    S(c, { s: L(1, 1.04, t / 5.4) });
+    const k = eo(P(t, 0, 1.2));
+    s.frame.style.transform = `translateX(${((1 - k) * -500).toFixed(1)}px) rotateY(${L(40, 22, k).toFixed(2)}deg) rotateX(${L(8, 4, k).toFixed(2)}deg)`; s.frame.style.opacity = C(k * 2);
+    revealParts(s.comp, t, .6, .07); animateComponent(s.comp, t, .6);
+    lettersP(s.w1, t, 1.0, .06); lettersP(s.w2, t, 1.35, .06);
+  } });
+
+/* 5 ===== orbit: the mark in a glowing ring, its products orbiting on thin rings */
+shot('orbit', { len: 6.0, hero: 3.6, bg: GW,
+  build(c, s, sc) {
+    s.rings = [300, 440, 600].map(r => D(c, 'ctr', { left: CX, top: CY, width: r * 2, height: r * 2, borderRadius: '50%', border: '1.5px solid rgba(200,255,230,.22)' }));
+    s.core = D(c, 'ctr', { left: CX, top: CY, width: 260, height: 260, borderRadius: '50%', background: 'radial-gradient(circle at 40% 35%,#3E8C6E,#1B4A3D 70%)', border: '3px solid rgba(200,255,230,.7)', boxShadow: '0 0 60px rgba(140,240,190,.55),inset 0 0 40px rgba(200,255,230,.25)', display: 'flex', alignItems: 'center', justifyContent: 'center' },
+      `<div style="width:110px">${MARK('#fff')}</div>`);
+    s.word = letters(c, sc.text || '', { left: CX, top: CY + 230, font: THIN(52, 400), color: 'rgba(220,255,240,.95)' });
+    s.items = (sc.items || []).map((n, i) => ({ e: D(c, 'ctr', { left: 0, top: 0, height: 70, padding: '0 26px', borderRadius: '35px', background: 'linear-gradient(160deg,rgba(255,255,255,.22),rgba(255,255,255,.06))', border: '1.5px solid rgba(255,255,255,.35)', color: '#fff', font: THIN(24, 500), display: 'flex', alignItems: 'center', whiteSpace: 'nowrap', boxShadow: '0 0 30px rgba(140,240,190,.25)' }, kesc(n)),
+      r: [440, 600, 440, 600, 440, 600][i % 6], a: i * Math.PI / 3 + .3, sp: .14, d: .9 + i * .14 }));
+  },
+  update(t, s, c) {
+    S(c, { s: L(1.05, 1, eo(P(t, 0, 6))) });
+    const k = eo(P(t, 0, .8)); S(s.core, { s: L(.5, 1, k) * (1 + .02 * Math.sin(t * 3)), o: C(k * 2) });
+    s.rings.forEach((r, i) => S(r, { s: L(.6, 1, eo(P(t, .2 + i * .12, 1.0 + i * .12))), o: eo(P(t, .2 + i * .12, .8 + i * .12)) }));
+    lettersP(s.word, t, .5, .045);
+    s.items.forEach(it => { const a = it.a + t * it.sp, q = eo(P(t, it.d, it.d + .5)); S(it.e, { x: CX + Math.cos(a) * it.r, y: CY + Math.sin(a) * it.r * .55, o: C(q * 2), s: L(.6, 1, q) }); });
+  } });
+
+/* 6 ===== ringWord: a big glowing ring fills the frame; the next idea builds inside it */
+shot('ringWord', { len: 3.4, hero: 2.4, bg: GW,
+  build(c, s, sc) {
+    s.ring = D(c, 'ctr', { left: CX, top: CY, width: 760, height: 760, borderRadius: '50%', background: 'radial-gradient(circle at 50% 40%,#2F7A60,#1B4A3D 72%)', border: '6px solid rgba(210,255,235,.85)', boxShadow: '0 0 90px rgba(140,240,190,.6),inset 0 0 60px rgba(200,255,230,.3)' });
+    s.halo = D(c, 'ctr', { left: CX, top: CY, width: 1100, height: 1100, borderRadius: '50%', border: '1.5px solid rgba(200,255,230,.25)' });
+    s.word = letters(c, sc.text || '', { left: CX, top: CY, font: THIN(64, 400) });
+  },
+  update(t, s, c) {
+    const k = eo(P(t, 0, 1.0)); S(s.ring, { s: L(.35, 1, k) * (1 + .015 * Math.sin(t * 4)), o: C(k * 2) }); S(s.halo, { s: L(.5, 1.05, eo(P(t, .2, 1.4))), o: .9 * eo(P(t, .2, 1)) });
+    s.ring.style.borderColor = `rgba(210,255,235,${(.6 + .3 * Math.sin(t * 3)).toFixed(2)})`;
+    lettersP(s.word, t, .8, .055);
+  } });
+
+/* 7 ===== printStage: the product as an object: the client's framed print on a white table, glass order cards floating over it */
+shot('printStage', { len: 5.4, hero: 3.6, bg: GW,
+  build(c, s, sc) {
+    s.ring = D(c, 'ctr', { left: CX, top: 380, width: 760, height: 760, borderRadius: '50%', background: 'radial-gradient(circle at 50% 40%,#2F7A60,#1B4A3D 72%)', border: '6px solid rgba(210,255,235,.8)', boxShadow: '0 0 90px rgba(140,240,190,.55)' });
+    s.table = D(c, 'abs', { left: -100, top: 760, width: W + 200, height: 420, background: 'linear-gradient(180deg,#F4F6F3 0%,#DDE4DF 55%,#BCC8C1 100%)', boxShadow: '0 -2px 0 rgba(255,255,255,.9)' });
+    s.wrap = D(c, 'abs', { left: 0, top: 0, width: W, height: H, perspective: '1600px' });
+    s.frame = D(s.wrap, 'abs', { left: CX - 230, top: 250, width: 460, height: 560, background: '#fbfaf7', padding: '34px', boxShadow: '0 0 0 14px #1d1d1b,0 60px 80px -20px rgba(0,0,0,.55)', transformOrigin: '50% 100%' }, `<div style="width:100%;height:100%;background:url('assets/g4.jpg') center/cover"></div>`);
+    s.shadow = D(c, 'ctr', { left: CX + 40, top: 815, width: 560, height: 60, borderRadius: '50%', background: 'rgba(0,0,0,.35)', filter: 'blur(18px)' });
+    const cards = sc.cards || [];
+    s.cards = cards.map((cd, i) => D(s.wrap, 'abs glass', { left: [240, 1300, 1290][i], top: [300, 270, 560][i], width: 380, padding: '24px 26px' },
+      `<div style="display:flex;justify-content:space-between;font:${THIN(20, 500)};opacity:.85"><span>${kesc(cd[0])}</span><span style="width:20px;height:20px">${MARK('#fff')}</span></div><div style="margin-top:14px;font:${THIN(26, 500)}">${kesc(cd[1])}</div><div style="display:flex;justify-content:space-between;align-items:center;margin-top:18px"><span style="font:${THIN(20, 300)};opacity:.85">${kesc(cd[2])}</span><span style="height:40px;padding:0 16px;border-radius:12px;background:rgba(160,240,200,.3);border:1.5px solid rgba(220,255,240,.5);display:flex;align-items:center;font:${THIN(20, 500)}">${kesc(cd[3])}</span></div>`));
+    s.word = letters(c, sc.text || '', { left: CX, top: 950, font: THIN(52, 400), color: '#1B3B32' });
+  },
+  update(t, s, c) {
+    S(c, { s: L(1.04, 1, eo(P(t, 0, 5.4))) });
+    const k = eo(P(t, 0, 1.0)); S(s.ring, { o: .9, s: L(1.3, 1, k) });
+    S(s.table, { y: (1 - k) * 300 }); S(s.shadow, { o: k, y: (1 - k) * 300 });
+    s.frame.style.transform = `translateY(${((1 - eo(P(t, .3, 1.3))) * 400).toFixed(1)}px) rotateY(${L(-22, -8, eo(P(t, .3, 5))).toFixed(2)}deg)`; s.frame.style.opacity = C(P(t, .3, .6) * 3);
+    s.cards.forEach((e, i) => { const q = eo(P(t, 1.4 + i * .3, 2.1 + i * .3)); e.style.opacity = C(q * 2); e.style.transform = `translateY(${((1 - q) * 60 + Math.sin(t * 1.6 + i) * 6).toFixed(1)}px) rotateY(${(i ? -14 : 14)}deg)`; });
+    lettersP(s.word, t, .2, .05, .45, 4.6);
+  } });
+
+/* 8 ===== network: a glowing network of clients forms the SeySpace mark; two thin words beside it */
+shot('network', { len: 5.0, hero: 3.2, bg: GW,
+  build(c, s, sc) {
+    s.cv = document.createElement('canvas'); s.cv.width = W; s.cv.height = H; s.cv.className = 'abs'; s.cv.style.left = 0; s.cv.style.top = 0; c.appendChild(s.cv);
+    const pts = []; const box = (x0, y0, w, h) => { for (let i = 0; i < 46; i++) pts.push([x0 + hash(i * 3 + x0) * w, y0 + hash(i * 7 + y0) * h]); };
+    box(260, 230, 420, 320); box(560, 600, 420, 320); s.pts = pts;
+    s.links = []; pts.forEach((p, i) => pts.forEach((q, j) => { if (j > i && Math.hypot(p[0] - q[0], p[1] - q[1]) < 110) s.links.push([i, j]); }));
+    s.w1 = letters(c, (sc.words || [])[0] || '', { left: 1230, top: CY - 50, font: THIN(64, 400), transform: 'translate(0,-50%)' });
+    s.w2 = letters(c, (sc.words || [])[1] || '', { left: 1230, top: CY + 40, font: THIN(64, 400), transform: 'translate(0,-50%)' });
+    s.w1.el.className = s.w2.el.className = 'abs';
+  },
+  update(t, s, c) {
+    S(c, { s: L(1, 1.05, t / 5) });
+    const x = s.cv.getContext('2d'); x.clearRect(0, 0, W, H);
+    const pos = s.pts.map(([px, py], i) => { const k = eio(P(t, hash(i) * .6, .9 + hash(i) * .6)); return [L(px + (hash(i + 4) - .5) * 900, px, k), L(py + (hash(i + 8) - .5) * 700, py, k), k]; });
+    x.lineWidth = 1.2; s.links.forEach(([i, j], n) => { const a = Math.min(pos[i][2], pos[j][2]) * eo(P(t, 1.0, 2.0)); if (a <= 0) return; x.strokeStyle = `rgba(170,240,205,${(a * .45).toFixed(3)})`; x.beginPath(); x.moveTo(pos[i][0], pos[i][1]); x.lineTo(pos[j][0], pos[j][1]); x.stroke(); });
+    pos.forEach(([px, py, k], i) => { const g = x.createRadialGradient(px, py, 0, px, py, 14); g.addColorStop(0, `rgba(235,255,245,${k})`); g.addColorStop(1, 'rgba(150,240,200,0)'); x.fillStyle = g; x.beginPath(); x.arc(px, py, 14, 0, 7); x.fill();
+      const tw = .5 + .5 * Math.sin(t * 4 + i); x.fillStyle = `rgba(255,255,255,${(k * (.6 + .4 * tw)).toFixed(3)})`; x.beginPath(); x.arc(px, py, 3.2, 0, 7); x.fill(); });
+    lettersP(s.w1, t, 1.2, .06); lettersP(s.w2, t, 1.55, .06);
+  } });
+
+/* 9 ===== finalScreen: the product screen straight on, in its glass frame, title building above */
+shot('finalScreen', { len: 5.2, hero: 3.4, bg: GW,
+  build(c, s, sc) {
+    s.title = letters(c, sc.title || '', { left: CX, top: 120, font: THIN(56, 400) });
+    s.frame = D(c, 'abs glass', { left: CX - 620, top: 210, width: 1240, height: 790, padding: '16px', borderRadius: '30px', boxShadow: '0 0 0 1px rgba(255,255,255,.2),0 0 80px rgba(140,240,190,.35)' });
+    s.comp = renderComponent(s.frame, sc.component, { x: 16, y: 16, w: 1208 }); s.comp.el.style.position = 'absolute'; s.comp.el.style.height = '758px'; s.comp.el.style.overflow = 'hidden'; s.comp.el.style.borderRadius = '18px'; s.comp.el.style.boxShadow = 'none';
+  },
+  update(t, s, c) {
+    S(c, { s: L(1.06, 1, eo(P(t, 0, 5.2))) });
+    const k = eo(P(t, 0, 1.0)); S(s.frame, { y: (1 - k) * 260, o: C(k * 2), s: L(.92, 1, k) });
+    revealParts(s.comp, t, .5, .06); animateComponent(s.comp, t, .5);
+    lettersP(s.title, t, .6, .06);
+  } });
+
+/* 10 ===== endMark: mark, wordmark, line, URL */
+shot('endMark', { len: 3.6, hero: 2.6, bg: GW, marker: 'cta',
+  build(c, s, sc) {
+    s.halo = D(c, 'ctr', { left: CX, top: CY - 70, width: 700, height: 700, borderRadius: '50%', background: 'radial-gradient(closest-side,rgba(140,240,190,.35),transparent)' });
+    s.mark = D(c, 'ctr', { left: CX, top: CY - 110, width: 170, filter: 'drop-shadow(0 0 30px rgba(160,240,200,.6))' }, MARK('#fff'));
+    s.word = letters(c, 'SeySpace', { left: CX, top: CY + 60, font: THIN(96, 500), letterSpacing: '-.03em' });
+    s.line = letters(c, sc.line || '', { left: CX, top: CY + 160, font: THIN(36, 300), color: 'rgba(220,255,240,.9)' });
+    s.url = letters(c, B.url || '', { left: CX, top: CY + 300, font: THIN(26, 400), color: 'rgba(220,255,240,.7)', letterSpacing: '.12em' });
+  },
+  update(t, s, c) {
+    S(c, { s: L(1.04, 1, eo(P(t, 0, 3.6))) });
+    const k = eo(P(t, 0, .9)); s.mark.style.opacity = C(k * 2); s.mark.style.transform = `translate(-50%,-50%) scale(${L(.6, 1, k).toFixed(3)}) rotate(${L(-20, 0, k).toFixed(2)}deg)`; s.mark.style.filter = `blur(${((1 - k) * 16).toFixed(1)}px) drop-shadow(0 0 30px rgba(160,240,200,.6))`;
+    S(s.halo, { o: k * (.8 + .2 * Math.sin(t * 3)) });
+    lettersP(s.word, t, .5, .06); lettersP(s.line, t, 1.1, .03); lettersP(s.url, t, 1.7, .03);
+  } });
